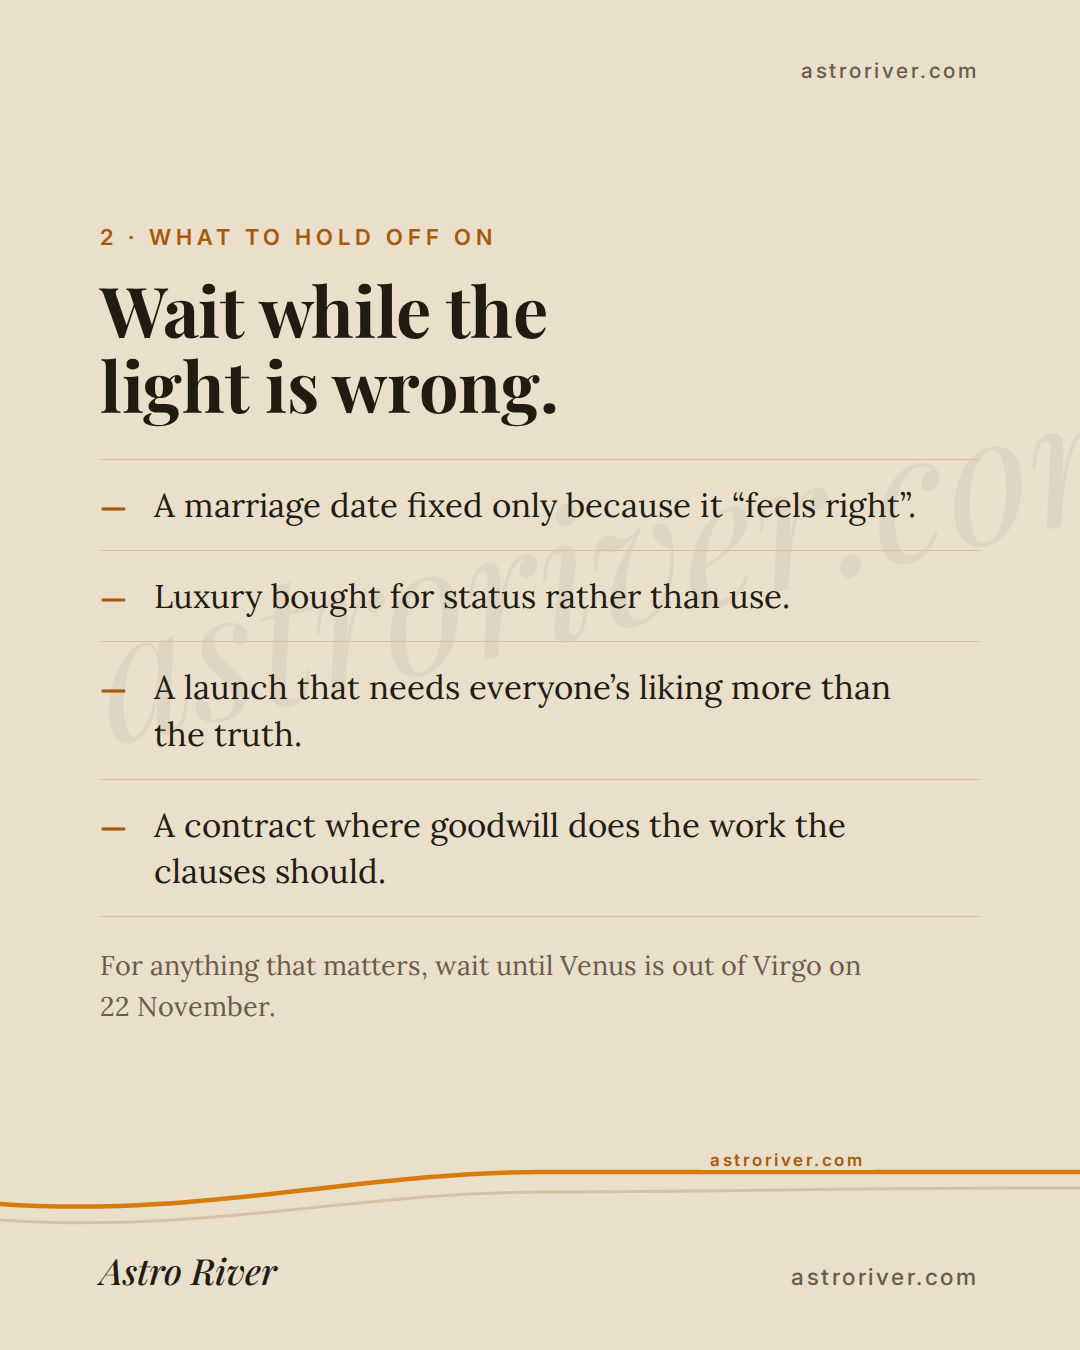
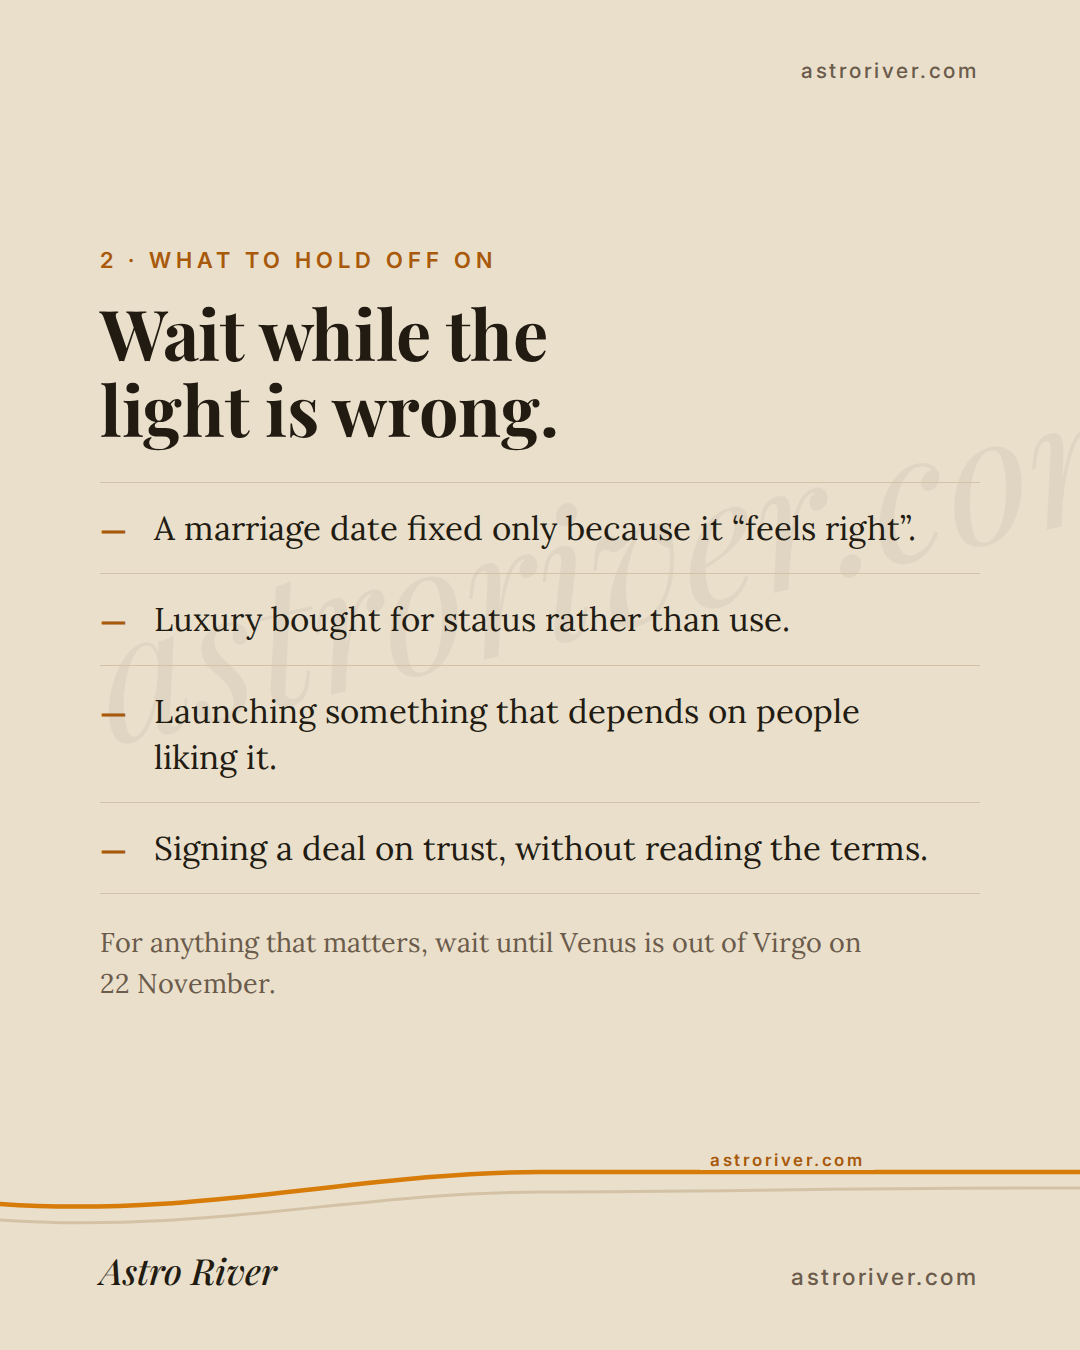
Venus retrograde (2 Oct 19:30): plain words for readers and search; pill reads VENUS RETROGRADE 2026 (founder approved)

Changed region(s): [[0.0917, 0.4356, 0.8556, 0.6533], [0.0917, 0.1556, 0.8556, 0.4044], [0.0917, 0.6844, 0.7944, 0.7467]]

diff --git a/build/transit_venus_retrograde.py b/build/transit_venus_retrograde.py
@@ -5,7 +5,9 @@
 #   Combust (within 8 deg of the Sun) 19 Oct 08:29 -> 29 Oct 10:29 IST.  Into Virgo 6 Nov 01:29 IST.
 #   Station direct Sat 14 Nov 05:59 IST at 28 deg 37' Virgo.  Back into Libra 22 Nov.  Shadow ends 16 Dec.
 #   3 Oct station abroad (article): London 08:13, New York/Toronto 03:13, Pacific 00:13, Sydney 17:13.
-# Words for "what to delay / what still works" follow the article. Founder approves before posting.
+# Words for "what to delay / what still works" follow the article. Rewritten 1 Oct for plain readers (founder: followers
+# are simple people, not astrologers) and for search (OpenRush, India: "venus retrograde 2026" ~880/mo, "shukra asta 2026"
+# ~1,300/mo, "venus retrograde meaning" ~210/mo): no degrees, nakshatra or 'combust/debilitation' on the images. Founder approves before posting.
 import os, asyncio, math
 from playwright.async_api import async_playwright
 HERE = os.path.dirname(os.path.abspath(__file__)); F = 'file://' + HERE + '/fonts/'
@@ -96,13 +98,13 @@ def loop_art(ox, oy, sc=1.0, labels=True):
     if labels:
         f1, f2 = 17*sc, 21*sc
         s += (f'<text x="{ox+(xR+40)*sc:.1f}" y="{oy+(yU-50)*sc:.1f}" text-anchor="end" font-family="IN" font-weight="700" font-size="{f1:.1f}" letter-spacing="2.5" fill="#A8590A">3 OCT · TURNS BACK</text>'
-              f'<text x="{ox+(xR+40)*sc:.1f}" y="{oy+(yU-24)*sc:.1f}" text-anchor="end" font-family="LO" font-size="{f2:.1f}" fill="#6B5B4B">14°15′ Libra</text>')
+              f'<text x="{ox+(xR+40)*sc:.1f}" y="{oy+(yU-24)*sc:.1f}" text-anchor="end" font-family="LO" font-size="{f2:.1f}" fill="#6B5B4B">in Libra</text>')
         s += (f'<text x="{ox+110*sc:.1f}" y="{oy+(yM+50)*sc:.1f}" font-family="IN" font-weight="700" font-size="{f1:.1f}" letter-spacing="2.5" fill="#A8590A">14 NOV</text>'
               f'<text x="{ox+110*sc:.1f}" y="{oy+(yM+74)*sc:.1f}" font-family="IN" font-weight="700" font-size="{f1:.1f}" letter-spacing="2.5" fill="#A8590A">TURNS</text>'
               f'<text x="{ox+110*sc:.1f}" y="{oy+(yM+98)*sc:.1f}" font-family="IN" font-weight="700" font-size="{f1:.1f}" letter-spacing="2.5" fill="#A8590A">FORWARD</text>'
-              f'<text x="{ox+110*sc:.1f}" y="{oy+(yM+124)*sc:.1f}" font-family="LO" font-size="{f2:.1f}" fill="#6B5B4B">28°37′ Virgo</text>')
+              f'<text x="{ox+110*sc:.1f}" y="{oy+(yM+124)*sc:.1f}" font-family="LO" font-size="{f2:.1f}" fill="#6B5B4B">in Virgo</text>')
         s += (f'<text x="{sx:.1f}" y="{oy+(yM+40)*sc:.1f}" text-anchor="middle" font-family="IN" font-weight="700" font-size="{f1:.1f}" letter-spacing="2.5" fill="#A8590A">19–29 OCT</text>'
-              f'<text x="{sx:.1f}" y="{oy+(yM+64)*sc:.1f}" text-anchor="middle" font-family="LO" font-size="{f2:.1f}" fill="#6B5B4B">hidden in the Sun’s light</text>')
+              f'<text x="{sx:.1f}" y="{oy+(yM+64)*sc:.1f}" text-anchor="middle" font-family="LO" font-size="{f2:.1f}" fill="#6B5B4B">Shukra asta</text>')
     return s
 
 def page(w, h, body, river_svg, tag_xy, tr_top, wm_top, foot_b, art=''):
@@ -127,12 +129,12 @@ pts = lambda items: ''.join(f'<div class="pt"><span class="k">{k}</span><span cl
 rows = lambda items: ''.join(f'<div class="pt" style="gap:28px"><span class="k" style="font:700 26px IN;min-width:190px;letter-spacing:.3px">{k}</span><span class="v" style="font-size:31px">{v}</span></div>' for k, v in items)
 
 HEAD = 'Venus turns back on <em>3&nbsp;October</em>.'
-SUB = 'Saturday, 12:43 IST, in Libra. Retrograde until 14&nbsp;November: six weeks to review, not&nbsp;to&nbsp;begin.'
-LINK1, LINK2 = 'Where it falls for your lagna:', 'astroriver.com/journal/venus-retrograde-2026'
+SUB = 'Saturday, 12:43 IST. For six weeks Venus seems to move backwards in the sky: a time to review, not&nbsp;to&nbsp;begin.'
+LINK1, LINK2 = 'What it means for you, sign by sign:', 'astroriver.com/journal/venus-retrograde-2026'
 slides = []
 slides.append(page(W, H, f"""
 <div class="flow" style="top:600px;bottom:220px;justify-content:flex-start">
- {chip('RETROGRADE', 22)}
+ {chip('VENUS RETROGRADE 2026', 22)}
  <h1 style="font-size:84px;margin-top:22px">{HEAD}</h1>
  <div class="b" style="font-size:34px;margin-top:24px">{SUB}</div>
  <div class="m" style="margin-top:20px;font-size:29px;color:{SAF}">Swipe &#8594;</div>
@@ -142,15 +144,15 @@ slides.append(page(W, H, f"""
 <div class="flow" style="{FL}">
  <div class="eb">1 · The path</div>
  <h2>Six weeks,<br>step by step.</h2>
- <div style="margin-top:36px">{rows([('3 Oct, 12:43', 'Turns retrograde at 14°15′ Libra, in&nbsp;Swati.'), ('19–29 Oct', 'Combust: hidden in the Sun’s&nbsp;light.'), ('6 Nov', 'Back into Virgo, its sign of&nbsp;debilitation.'), ('14 Nov, 05:59', 'Turns direct at 28°37′&nbsp;Virgo.'), ('22 Nov', 'Back into Libra.')])}</div>
- <div class="m" style="margin-top:26px;font-size:25px">Times in IST, Lahiri sidereal. Western forecasts say Scorpio; the moment is the same. On 3 October it is 08:13 in London, 03:13 in New York and 17:13 in&nbsp;Sydney.</div>
+ <div style="margin-top:36px">{rows([('3 Oct, 12:43', 'Turns back, in&nbsp;Libra.'), ('19–29 Oct', '<b style="font-weight:600">Shukra asta</b>: hidden in the Sun’s light. No&nbsp;weddings.'), ('6 Nov', 'Into Virgo, where Venus is at its&nbsp;weakest.'), ('14 Nov, 05:59', 'Starts moving forward&nbsp;again.'), ('22 Nov', 'Back in Libra. All&nbsp;clear.')])}</div>
+ <div class="m" style="margin-top:26px;font-size:25px">Times in IST. Western astrology says Scorpio; it is the same event. On 3&nbsp;October it is 08:13 in London, 03:13 in New York and 17:13 in&nbsp;Sydney.</div>
 </div>""", sr(1), TAGS[1], 58, 560, 56))
 
 slides.append(page(W, H, f"""
 <div class="flow" style="{FL}">
  <div class="eb">2 · What to hold off on</div>
  <h2>Wait while the<br>light is wrong.</h2>
- <div style="margin-top:36px">{pts([('&#8212;', 'A marriage date fixed only because it “feels&nbsp;right”.'), ('&#8212;', 'Luxury bought for status rather than&nbsp;use.'), ('&#8212;', 'A launch that needs everyone’s liking more than the&nbsp;truth.'), ('&#8212;', 'A contract where goodwill does the work the clauses&nbsp;should.')])}</div>
+ <div style="margin-top:36px">{pts([('&#8212;', 'A marriage date fixed only because it “feels&nbsp;right”.'), ('&#8212;', 'Luxury bought for status rather than&nbsp;use.'), ('&#8212;', 'Launching something that depends on people liking&nbsp;it.'), ('&#8212;', 'Signing a deal on trust, without reading the&nbsp;terms.')])}</div>
  <div class="m" style="margin-top:28px;font-size:27px">For anything that matters, wait until Venus is out of Virgo on 22&nbsp;November.</div>
 </div>""", sr(2), TAGS[2], 58, 560, 56))
 
@@ -158,7 +160,7 @@ slides.append(page(W, H, f"""
 <div class="flow" style="{FL}">
  <div class="eb">3 · What still works</div>
  <h2>Retrogrades give<br>things back.</h2>
- <div style="margin-top:36px">{pts([('1', 'Keeping promises already&nbsp;made.'), ('2', 'Repairing a relationship without announcing&nbsp;it.'), ('3', 'Money discipline that needs no&nbsp;applause.'), ('4', 'Going back to a person, a project or a purchase you left too&nbsp;fast.')])}</div>
+ <div style="margin-top:36px">{pts([('1', 'Keeping promises already&nbsp;made.'), ('2', 'Repairing a relationship without announcing&nbsp;it.'), ('3', 'Saving money&nbsp;quietly.'), ('4', 'Going back to a person, a project or a purchase you left too&nbsp;fast.')])}</div>
  <div class="link1" style="margin-top:34px">{LINK1}</div>
  <div class="link2">{LINK2}</div>
 </div>""", sr(3), TAGS[3], 58, 560, 56))
@@ -169,9 +171,9 @@ slides.append(page(W, H, f"""
 <div class="flow" style="{FL}">
  <div class="eb">4 · Your own chart</div>
  <h2 style="font-size:66px">Where does it fall<br><em>for you</em>?</h2>
- <div class="m" style="margin-top:18px;font-size:29px">It depends on your lagna and your Moon. Three ways to get your&nbsp;answer:</div>
+ <div class="m" style="margin-top:18px;font-size:29px">It depends on your own birth chart. Three ways to get your&nbsp;answer:</div>
  <div style="margin-top:10px">
-  {opt("A transit report", "Venus’s six weeks, read against your own&nbsp;chart.", True)}
+  {opt("A written report", "Venus’s six weeks, read against your own&nbsp;chart.", True)}
   {opt("A private consultation", "Live, by audio call or chat.", False)}
   {opt("Ask an AI astrologer", "Online at astroriver.com, any time.", False)}
  </div>
@@ -182,10 +184,10 @@ slides.append(page(W, H, f"""
 # WhatsApp status / Pinterest, 1080x1920
 story = page(1080, 1920, f"""
 <div class="flow" style="top:800px;bottom:250px;justify-content:flex-start">
- {chip('RETROGRADE', 26)}
+ {chip('VENUS RETROGRADE 2026', 26)}
  <h1 style="font-size:100px;margin-top:26px">{HEAD}</h1>
  <div class="b" style="font-size:40px;margin-top:30px">{SUB}</div>
- <div style="margin-top:40px">{rows([('19–29 Oct', 'Hidden in the Sun’s&nbsp;light.'), ('14 Nov', 'Turns direct, in&nbsp;Virgo.')])}</div>
+ <div style="margin-top:40px">{rows([('19–29 Oct', 'Shukra asta. No&nbsp;weddings.'), ('14 Nov', 'Starts moving forward&nbsp;again.')])}</div>
  <div class="link1" style="margin-top:40px;font-size:32px">{LINK1}</div>
  <div class="link2" style="font-size:31px">{LINK2}</div>
 </div>""", river(1742, 1728, 1716, True, True), (470, 1680), 90, 980, 90, loop_art(0, 170, 1.0))
@@ -196,7 +198,7 @@ html,body{{width:1600px;height:900px}} .s{{width:1600px;height:900px}}</style></
 <div class="wm" style="top:330px;left:260px">astroriver.com</div><div class="tr" style="top:52px">astroriver.com</div>
 <svg class="r" width="1600" height="900">{loop_art(740, 100, 0.78)}</svg>
 <div class="flow" style="top:100px;bottom:190px;right:900px">
- {chip('RETROGRADE', 19)}
+ {chip('VENUS RETROGRADE 2026', 19)}
  <h1 style="font-size:72px;margin-top:20px">{HEAD}</h1>
  <div class="b" style="font-size:29px;margin-top:22px">{SUB}</div>
  <div class="link1" style="margin-top:26px;font-size:25px">{LINK1}</div>
